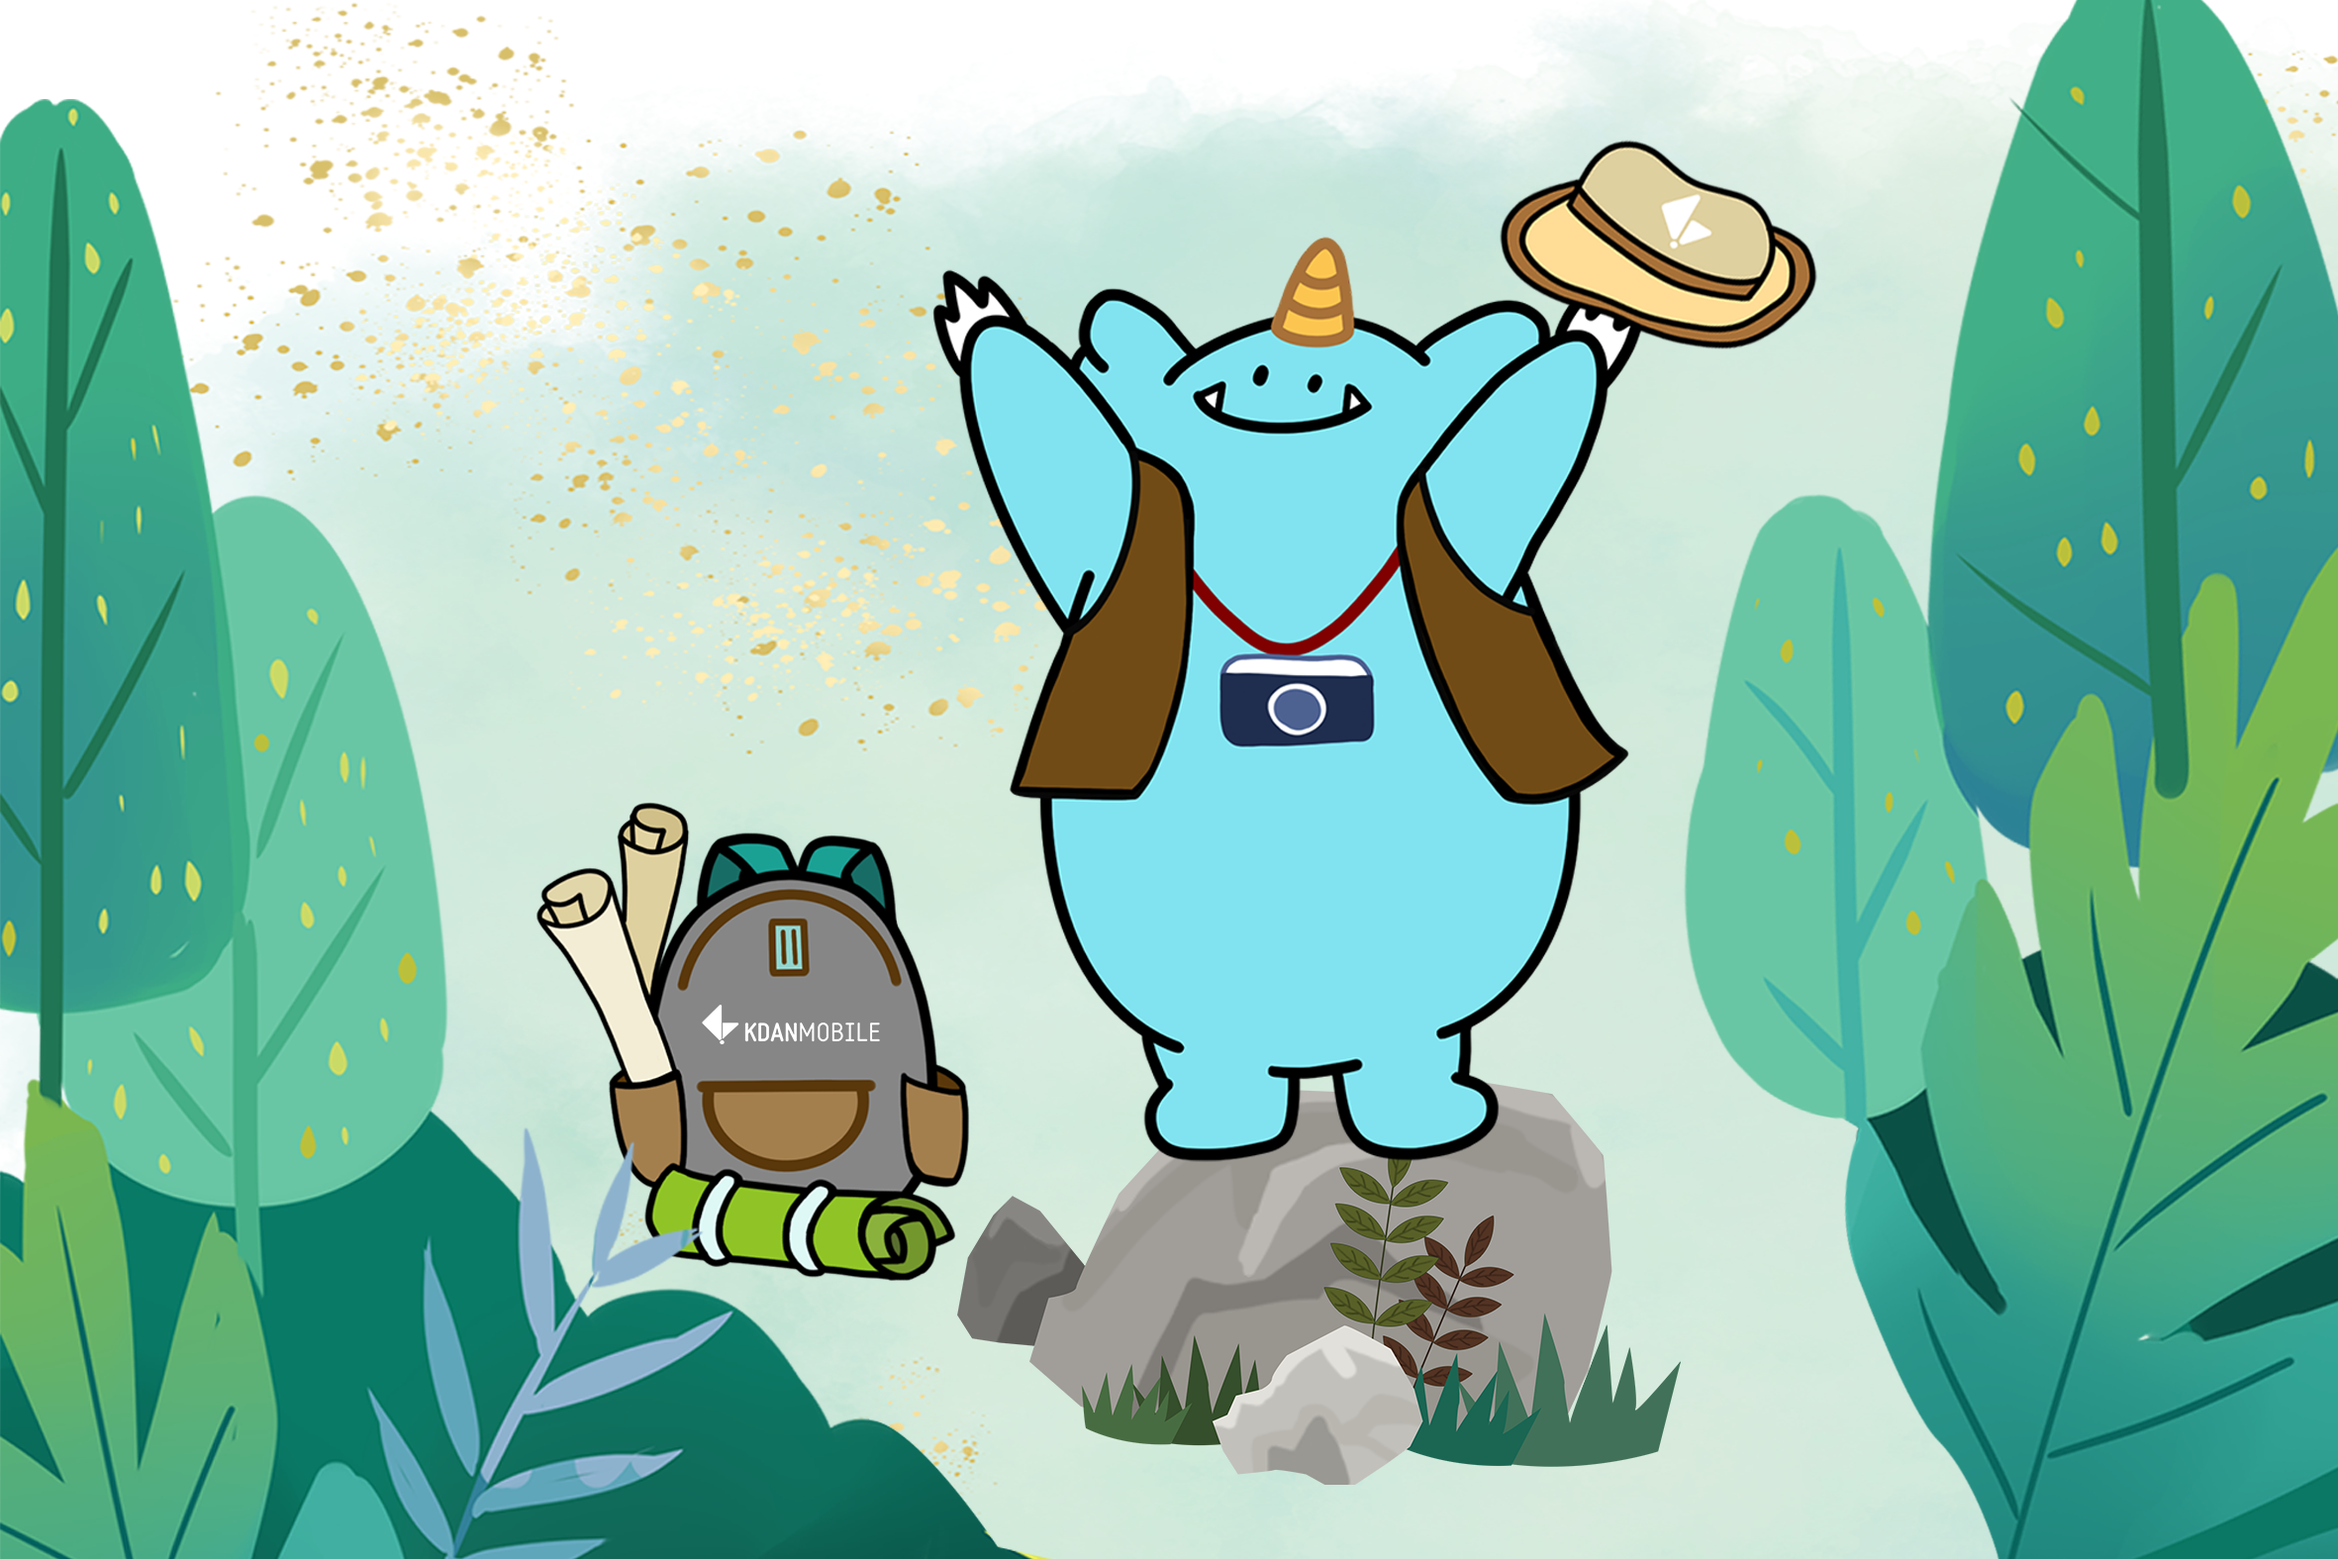
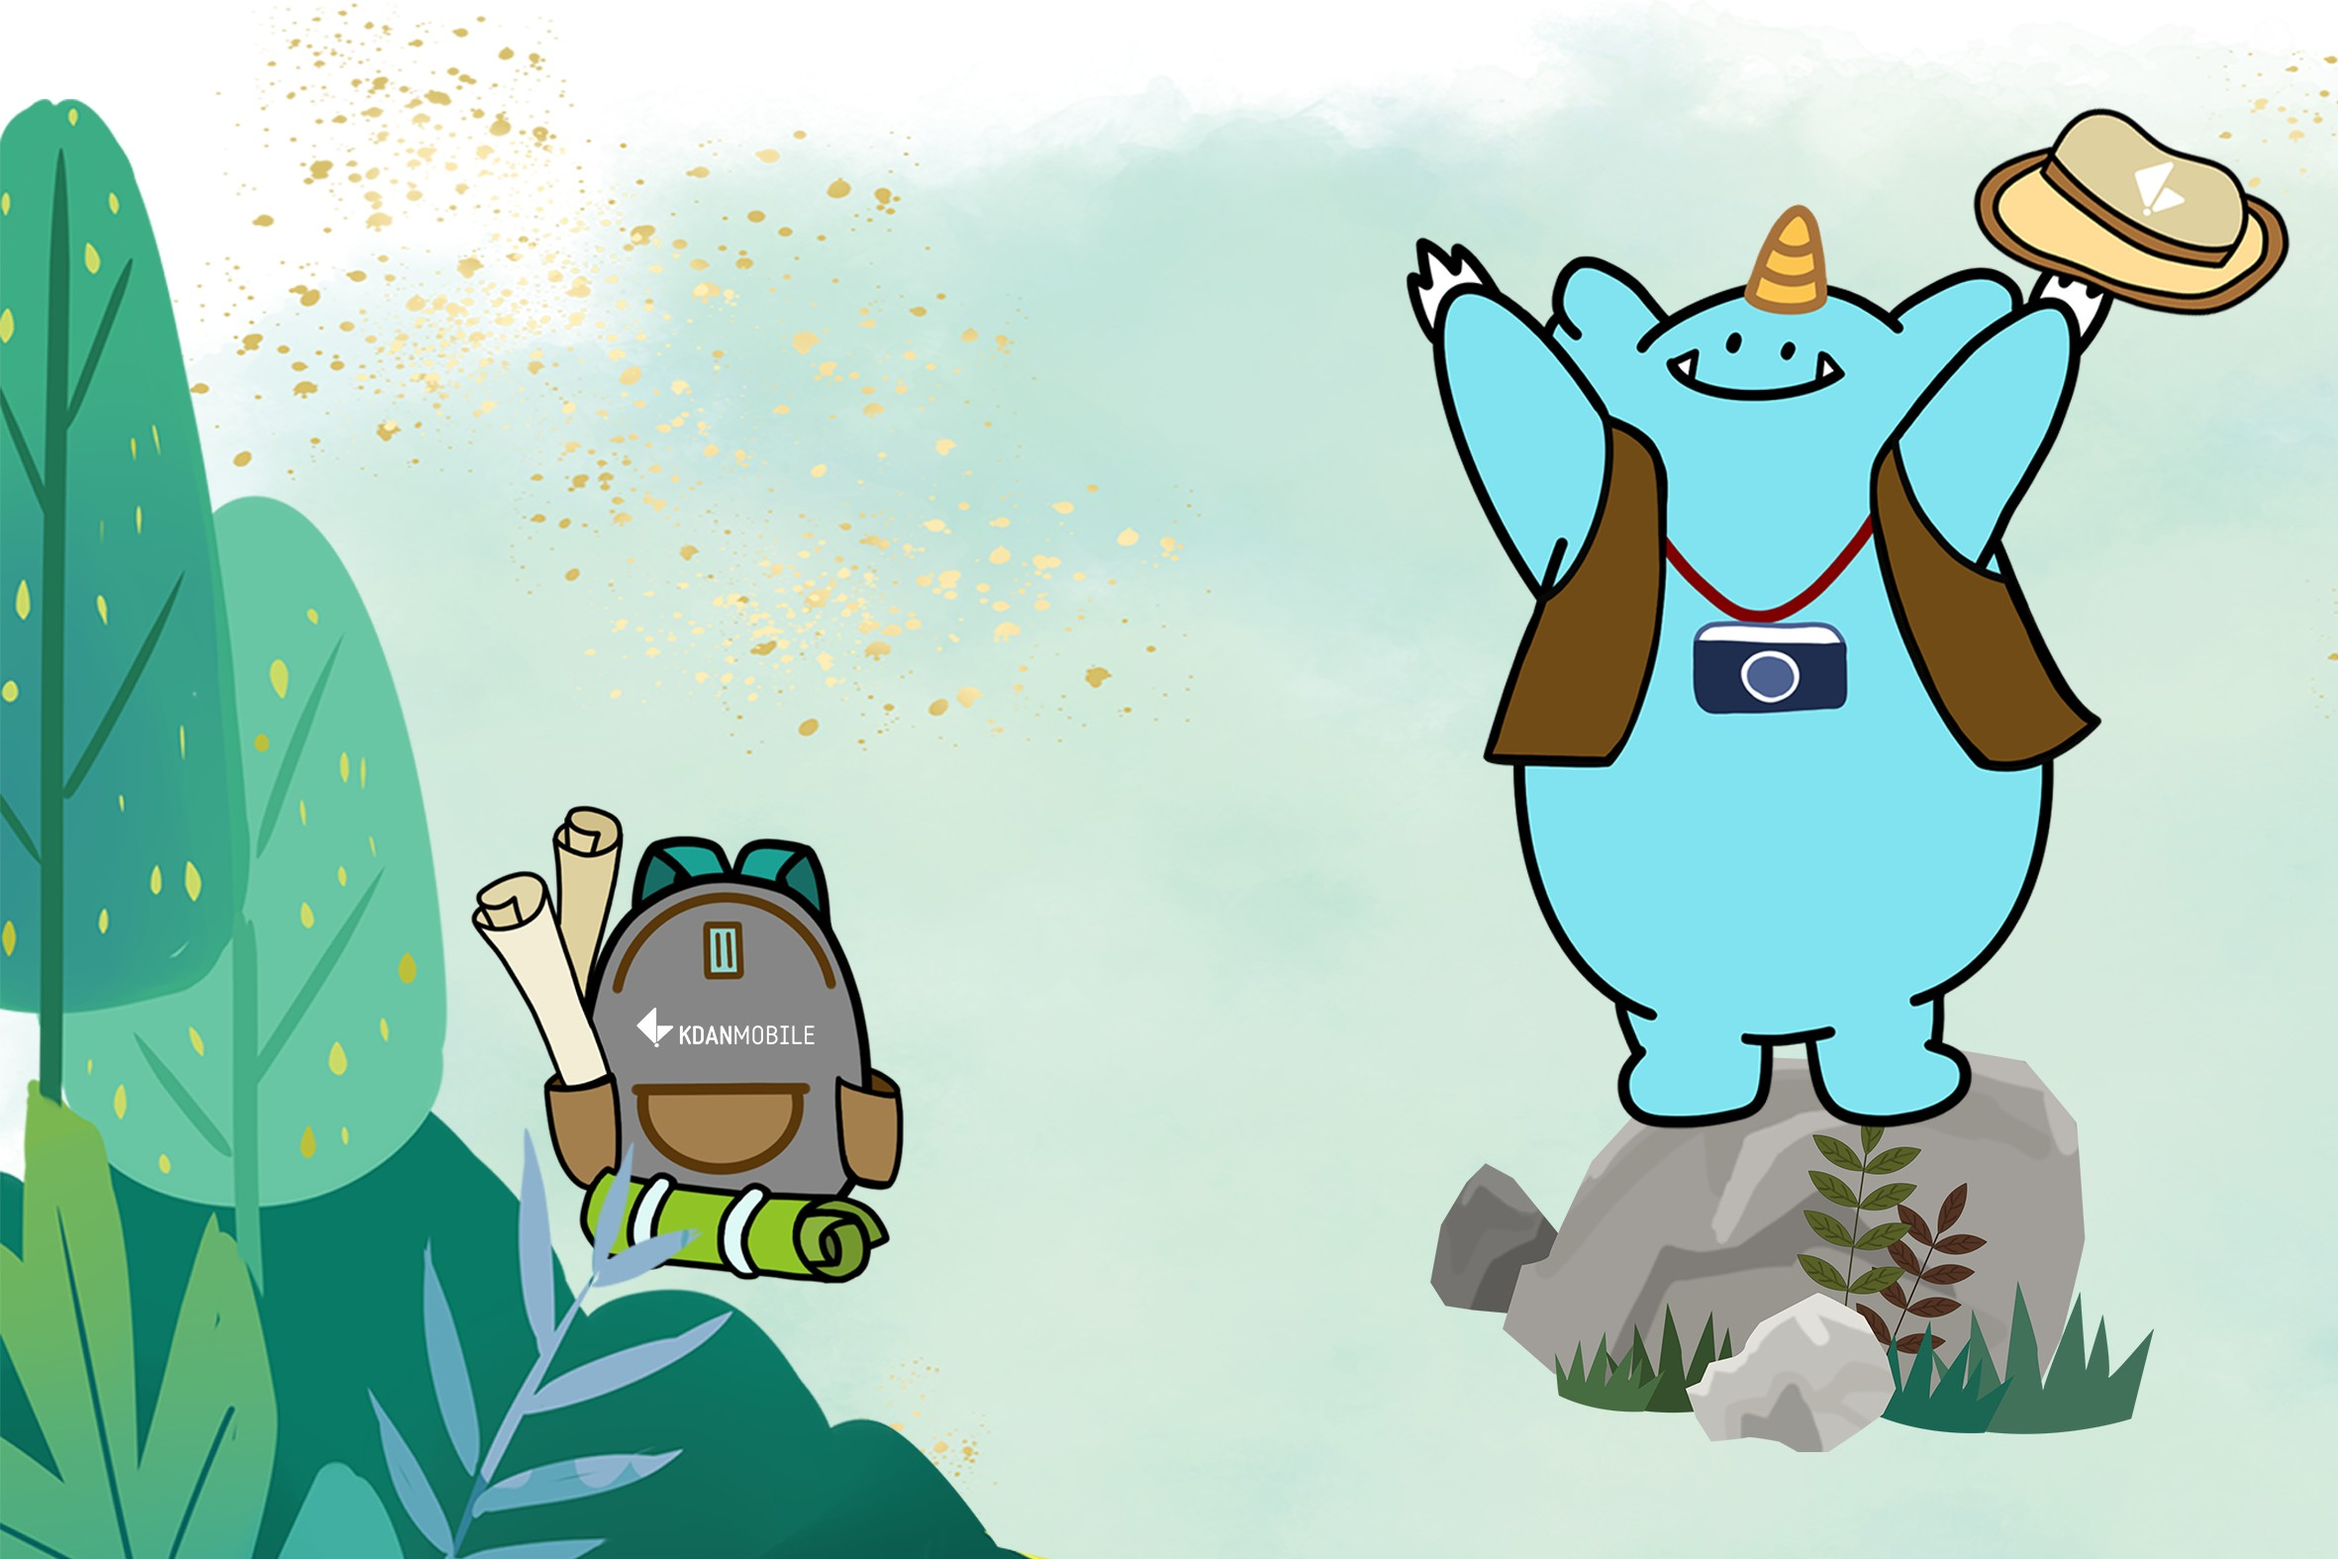
feat: setting default value and change background image

diff --git a/components/NameList/index.jsx b/components/NameList/index.jsx
@@ -114,7 +114,7 @@ const CopyButton = styled.button`
 
 const NameList = () => {
   const [isActive, setActive] = useState(false);
-  const [value, setValue] = useState('');
+  const [value, setValue] = useState('口罩,口罩,口罩,口罩,口罩,口罩,口罩,口罩,口罩,口罩,口罩,口罩,口罩,口罩,口罩,口罩,口罩,口罩,口罩,口罩,口罩,口罩,口罩,口罩,口罩,口罩,口罩,口罩,口罩,口罩,口罩,口罩,口罩,口罩,口罩,口罩,口罩,口罩,口罩,口罩,口罩,口罩,口罩,口罩,口罩,口罩,口罩,口罩,口罩,口罩,口罩,口罩,口罩,口罩,口罩,口罩,口罩,口罩,口罩,口罩,口罩,口罩,口罩,口罩,口罩,口罩,口罩,口罩,口罩,口罩,口罩,口罩,口罩,口罩,口罩,口罩,口罩,口罩,口罩,口罩,口罩,口罩,口罩,口罩,口罩,口罩,口罩,口罩,口罩,口罩,口罩,口罩,口罩,口罩,口罩,口罩,口罩,口罩,口罩,口罩,口罩,口罩,口罩,口罩,口罩,口罩,口罩,口罩,口罩,口罩,口罩,口罩,口罩,口罩,口罩,口罩,口罩,口罩,口罩,口罩,口罩,口罩,口罩,口罩,口罩,口罩,口罩,口罩,口罩,口罩,口罩,口罩,口罩,口罩,口罩,口罩,口罩,口罩,口罩,口罩,口罩,口罩,口罩,口罩,口罩,口罩,口罩,口罩,口罩,口罩,口罩,口罩,口罩,口罩,口罩,口罩,口罩,口罩,口罩,口罩,口罩,口罩,口罩,口罩,口罩,口罩,口罩,口罩,口罩,口罩,口罩,口罩,口罩,口罩,口罩,口罩,口罩,口罩,口罩,口罩,口罩,口罩,口罩,口罩,口罩,口罩,口罩,口罩,口罩,口罩,口罩,口罩,口罩,口罩,口罩,口罩,口罩,口罩,口罩,口罩,口罩,口罩,口罩,口罩,口罩,口罩,口罩,口罩,口罩,口罩,口罩,口罩,口罩,口罩,口罩,口罩,口罩,口罩,口罩,口罩,口罩,口罩,口罩,口罩,口罩,口罩,口罩,口罩,口罩,口罩,口罩,口罩,口罩,口罩,口罩,口罩,口罩,口罩,口罩,口罩,口罩,口罩,口罩,口罩,口罩,口罩,口罩,口罩,口罩,口罩,jolly袋子,jolly袋子,jolly袋子,jolly袋子,jolly袋子,jolly袋子,jolly袋子,jolly袋子,jolly袋子,jolly袋子,jolly袋子,jolly袋子,jolly袋子,jolly袋子,jolly袋子,jolly袋子,jolly袋子,jolly袋子,jolly袋子,jolly袋子,筆記本,筆記本,筆記本,筆記本,筆記本,筆記本,筆記本,筆記本,筆記本,筆記本,筆記本,筆記本,筆記本,筆記本,筆記本,筆記本,筆記本,筆記本,筆記本,筆記本,資料夾,資料夾,資料夾,資料夾,資料夾,資料夾,資料夾,資料夾,資料夾,資料夾,資料夾,資料夾,資料夾,資料夾,資料夾,資料夾,資料夾,資料夾,資料夾,資料夾,資料夾,資料夾,資料夾,資料夾,資料夾,資料夾,資料夾,資料夾,資料夾,資料夾,資料夾,資料夾,資料夾,資料夾,資料夾,711禮券,711禮券,711禮券,711禮券,711禮券,711禮券,711禮券,711禮券,711禮券,711禮券,711禮券,711禮券,711禮券,711禮券,711禮券');
   const textareaRef = useRef(null);
 
   const { lotteryList, winnerList, allWinnerList, pickOutCount } = useSelector((state) => state.main);

diff --git a/pages/index.jsx b/pages/index.jsx
@@ -14,7 +14,7 @@ const Container = styled.div`
   position: relative;
   height: 100vh;
   width: 100vw;
-  background-image: url('/hr_event_bg.png');
+  background-image: url('/Kdan_background.png');
   background-repeat: no-repeat;
   background-size: cover;
   background-position: center;
